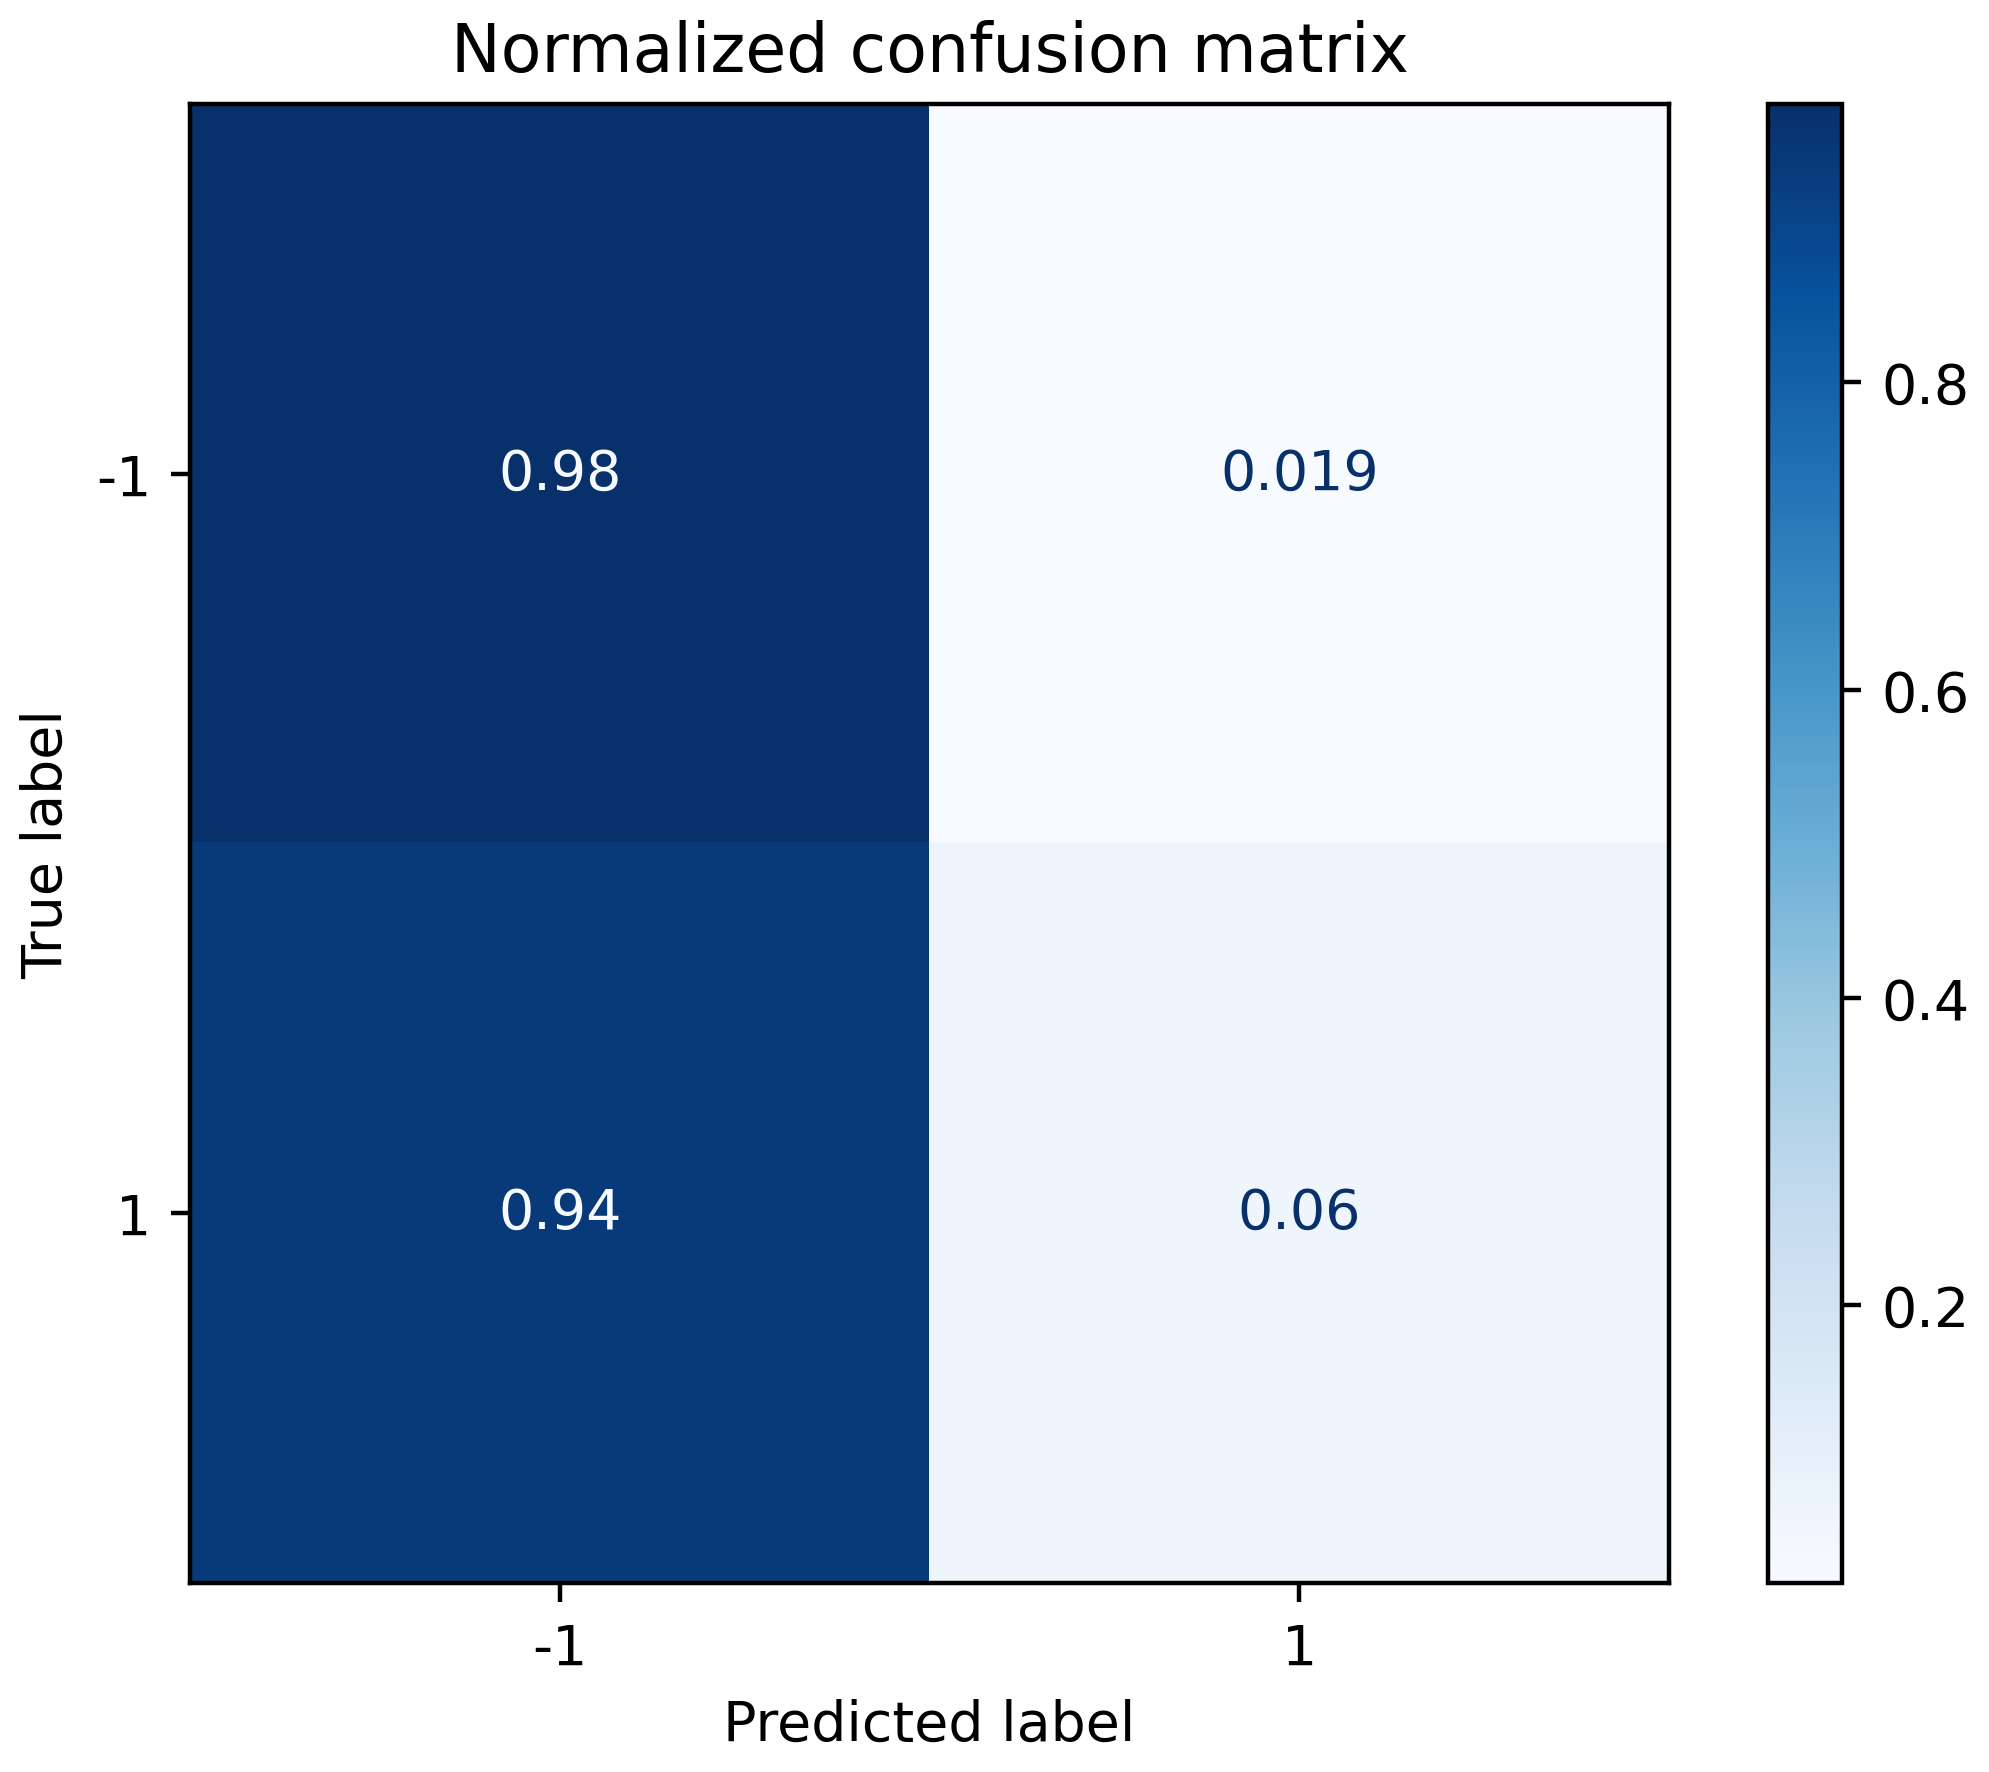
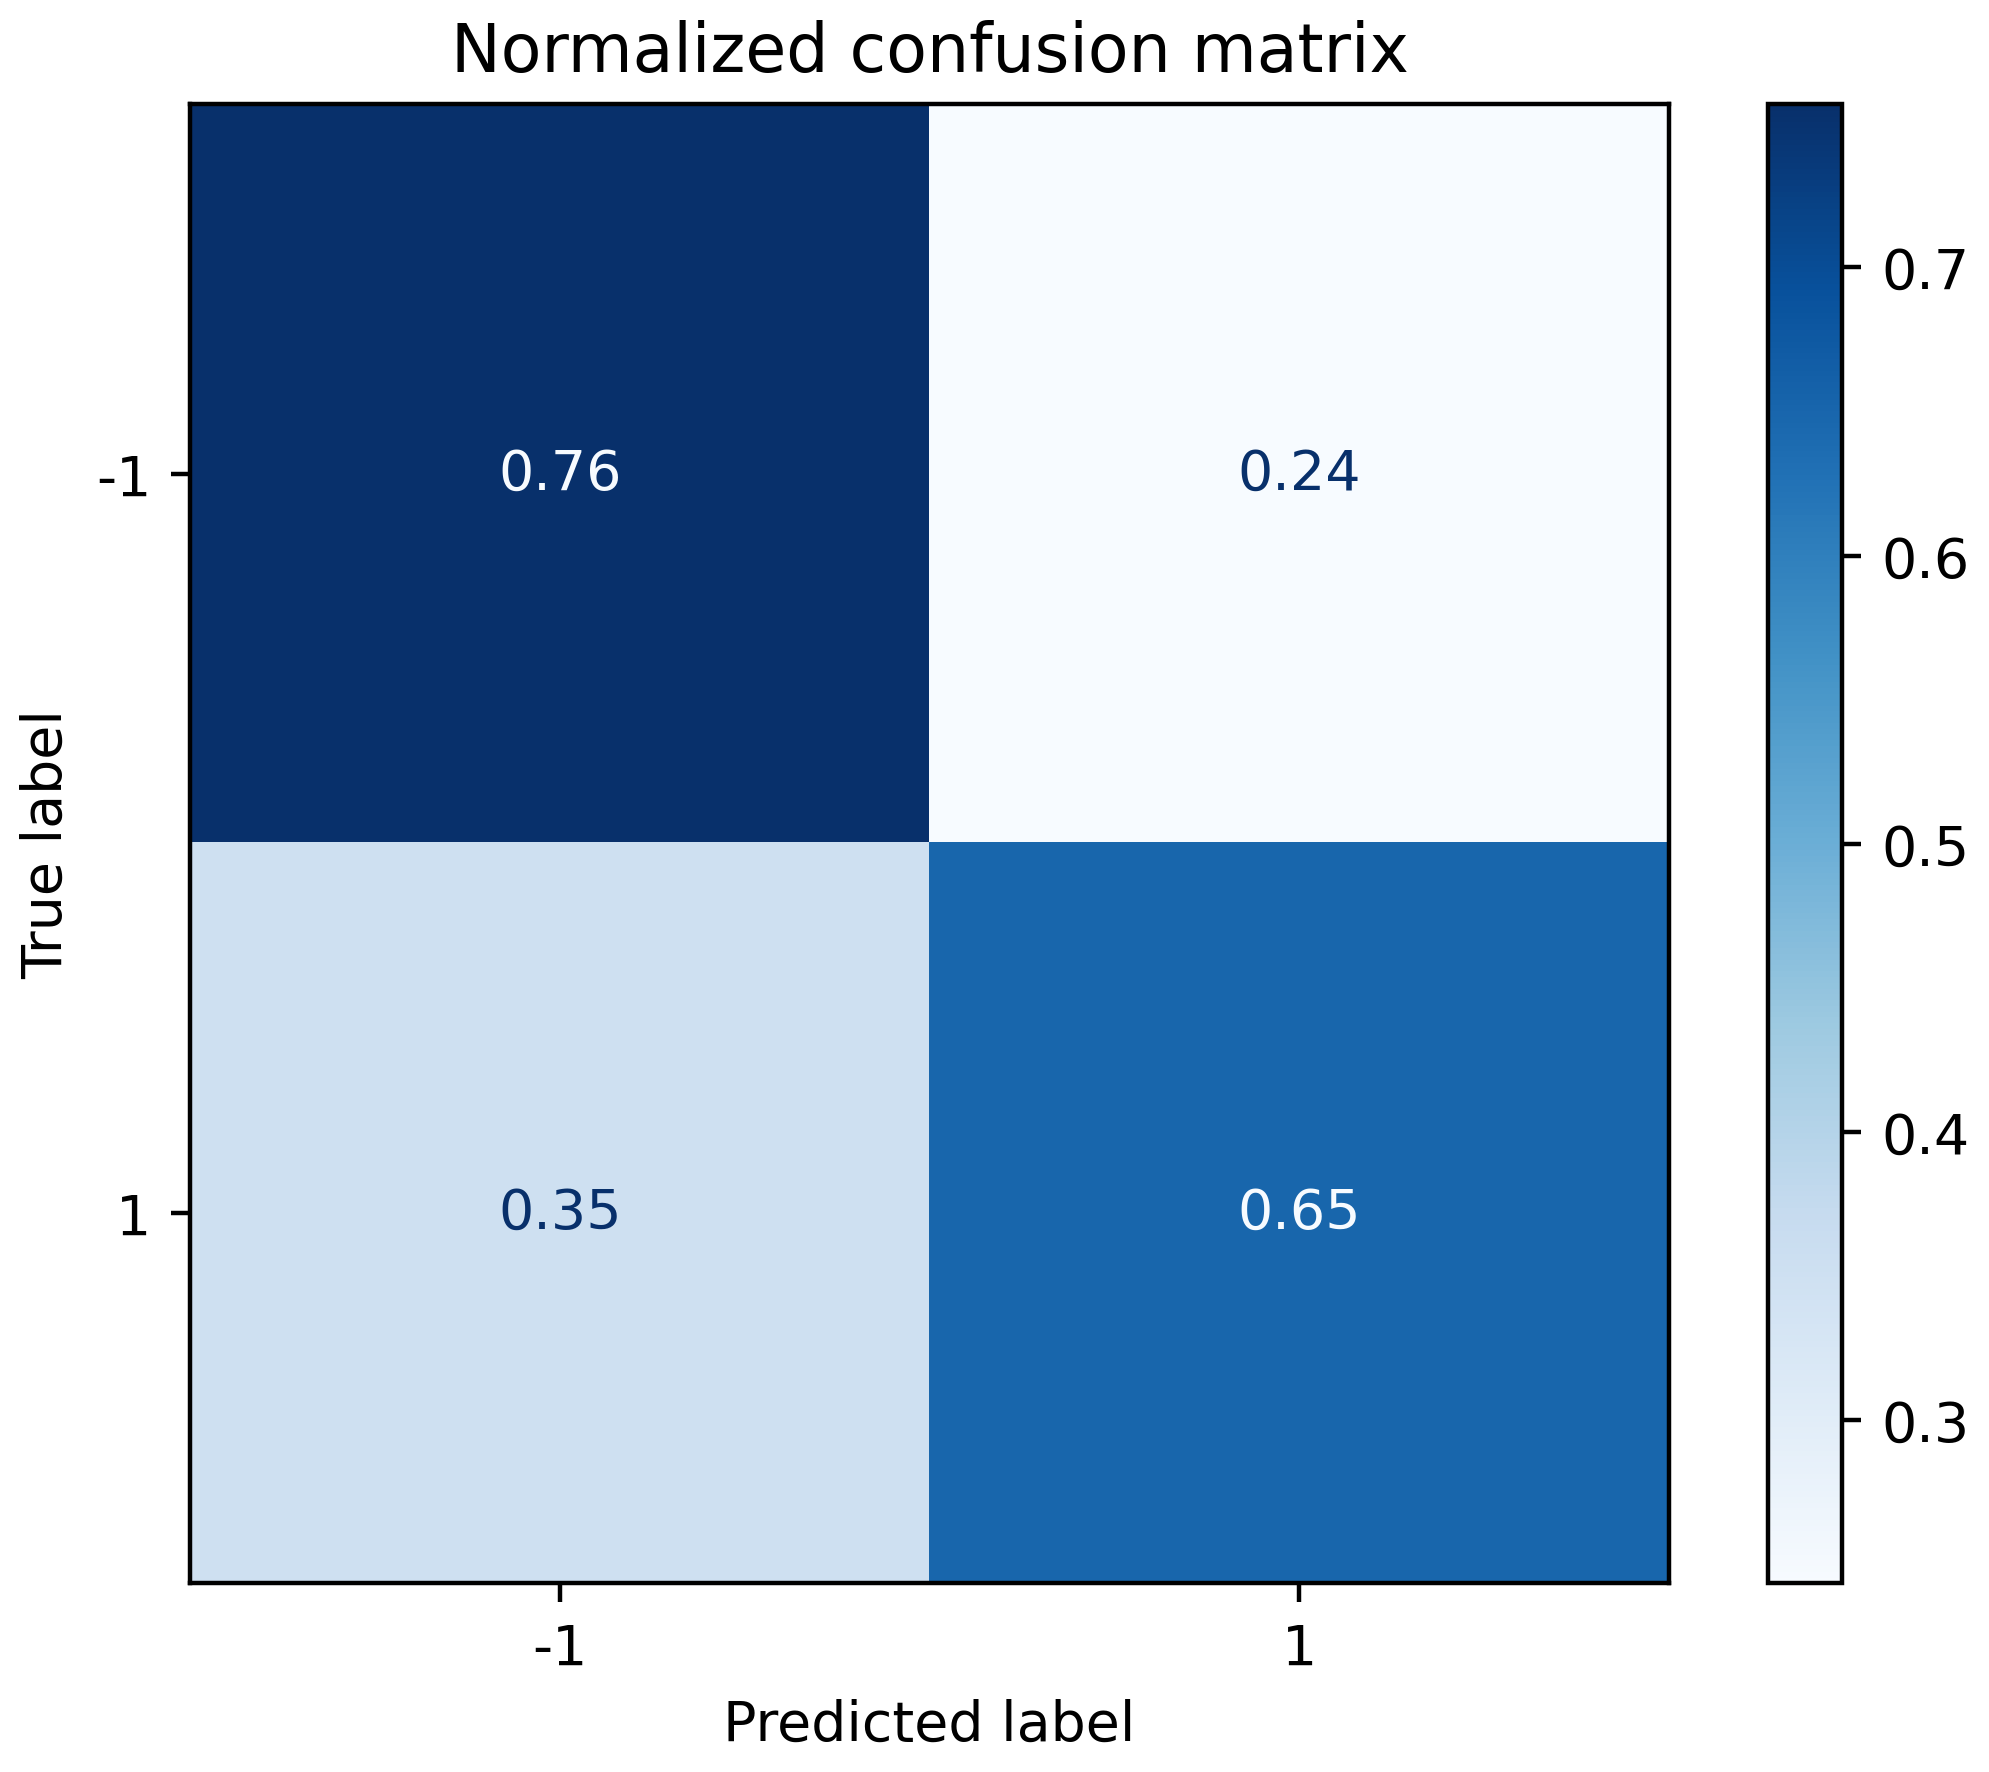
update

diff --git a/rfc_test.py b/rfc_test.py
@@ -22,9 +22,11 @@ clf.fit(x_train, y_train)
 print_report(clf, x_test, y_test, "pre-train", "RandomForest")
 
 # # GridSearchCV 搜索最优 knn ------------------------------------------------------------------------------
-param_grid = {'bootstrap': [False, True], 'n_estimators': [1, 2, 3, 4, 5, 6, 7, 8, 9, 10, 15, 40, 50, 60, 70, 90, 100],
-              'max_depth': [1, 2, 3, 4, 5, 6, 7, None]}
-clf = RandomForestClassifier(n_jobs=-1)
+param_grid = {'bootstrap': [False, True], 'n_estimators': [3, 4, 5, 6, 7, 8, 9, 10, 15, 40, 50, 60, 65, 70, 90, 100],
+              'max_depth': [1, 3, 5, 7]}
+param_grid = {'bootstrap': [True], 'n_estimators': [100, 120, 150, 170, 200],
+              'max_depth': [1, 3, 5, 7]}
+clf = RandomForestClassifier(n_jobs=-1, class_weight='balanced')
 grid_search = GridSearchCV(clf, param_grid=param_grid, cv=10, scoring='f1_macro', n_jobs=-1)
 grid_search.fit(x_train, y_train)
 print(grid_search.best_params_)

diff --git a/RandomForest.tex b/RandomForest.tex
@@ -4,9 +4,9 @@
     \begin{tabular}{|r|c|c|c|}
         \hline
                   & Precision & Recall & F1-score \\ \hline
-        -1        &     0.94573     &     0.98056   &    0.96283      \\ \hline
-        1         &     0.15556      &     0.05983   &   0.08642       \\ \hline
-        macro avg &      0.55064     &     0.52020   &    0.52463      \\ \hline
+        -1        &     0.97303     &     0.75652   &    0.85122      \\ \hline
+        1         &     0.13768      &     0.64957   &   0.22720       \\ \hline
+        macro avg &      0.55535     &     0.70305   &    0.53921      \\ \hline
     \end{tabular}
     \caption{RandomForest}
 \end{table}
